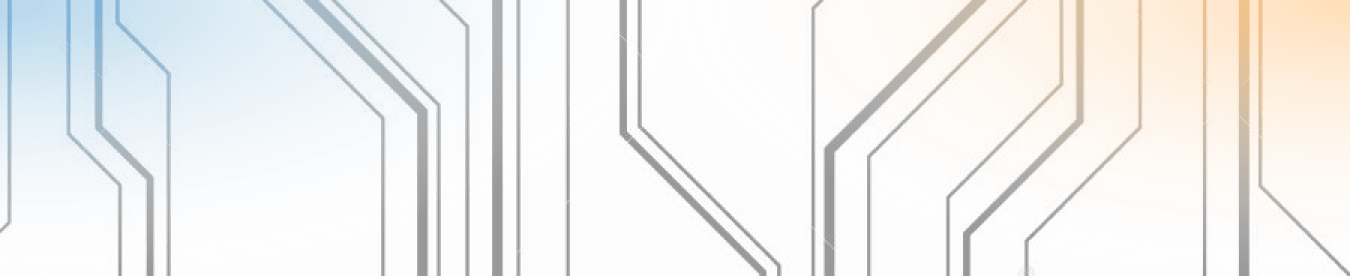
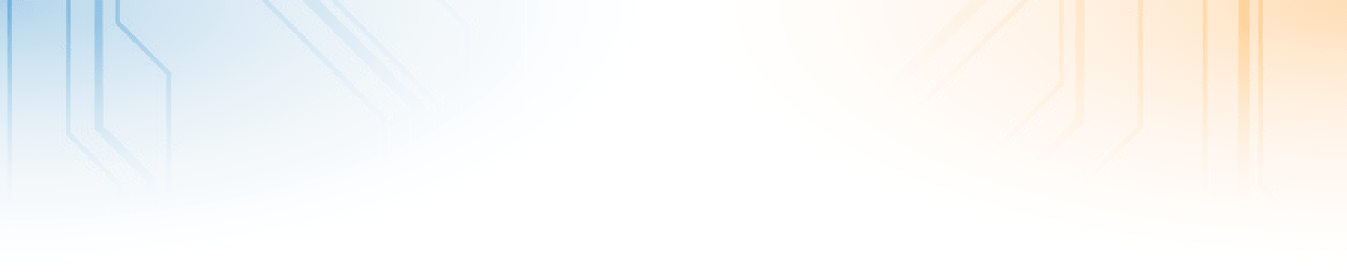
Update Welcome image and fix issue lazy image

diff --git a/src/app/containers/HomePage/components/WelcomeBanner/index.js b/src/app/containers/HomePage/components/WelcomeBanner/index.js
@@ -30,6 +30,14 @@ const WelcomeWrapper = styled.div`
     radial-gradient(50% 100% at 0% 0%, #67adda 0%, rgba(255, 255, 255, 0) 100%);
 `;
 
+const WelcomeImage = styled(LazyImage)`
+  position: absolute;
+  top: 0;
+  right: 0;
+  width: 100%;
+  height: 100%;
+`;
+
 const IconWrapper = styled.div`
   position: absolute;
   top: 15px;
@@ -147,7 +155,11 @@ function WelcomeBanner() {
 
   return showWelcomeBanner ? (
     <WelcomeWrapper>
-      <LazyImage src={welcomeImage} alt="homepage-welcome" imageClassName={styles.welcomeImage} />
+      <WelcomeImage
+        src={welcomeImage}
+        alt="homepage-welcome"
+        imageClassName={styles.welcomeImage}
+      />
       <IconWrapper
         onClick={() => {
           setShowWelcomeBanner(false);
